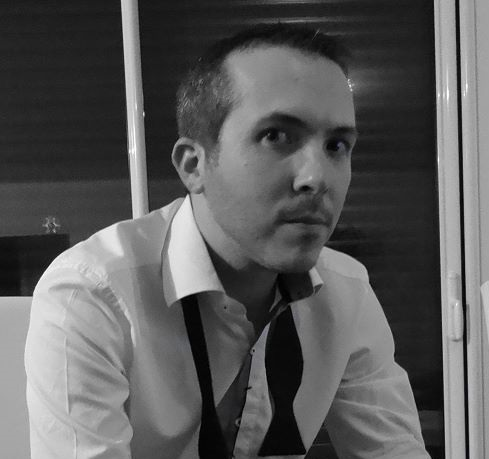
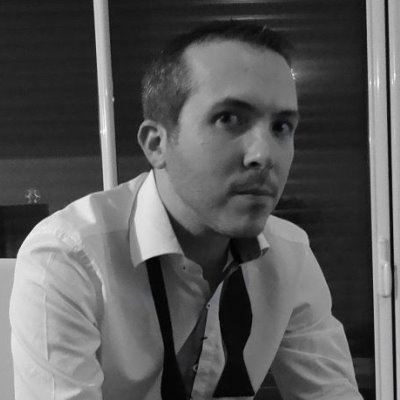
new photos

diff --git a/_speakers/42.md b/_speakers/42.md
@@ -3,7 +3,7 @@
   title: Volcamp - Thomas Rannou
   abstract: 
   twitter: thomas_rannou
-  photo: 42.png
+  photo: 42.jpg
   linkedin: none
   keynotes: false
   sitemap: false

diff --git a/_speakers/64.md b/_speakers/64.md
@@ -3,7 +3,7 @@
   title: Volcamp - Yann Schepens
   abstract: 
   twitter: YannSchepens
-  photo: 64.png
+  photo: 64.jpg
   linkedin: none
   keynotes: false
   sitemap: false

diff --git a/_speakers/58.md b/_speakers/58.md
@@ -3,7 +3,7 @@
   title: Volcamp - Samuel Morel
   abstract: 
   twitter: samuelmorel
-  photo: 58.webp
+  photo: 58.jpg
   linkedin: none
   keynotes: false
   sitemap: false

diff --git a/_speakers/39.md b/_speakers/39.md
@@ -3,7 +3,7 @@
   title: Volcamp - Enguerran Chevalier
   abstract: 
   twitter: none
-  photo: none
+  photo: 39.jpg
   linkedin: none
   keynotes: false
   sitemap: false
